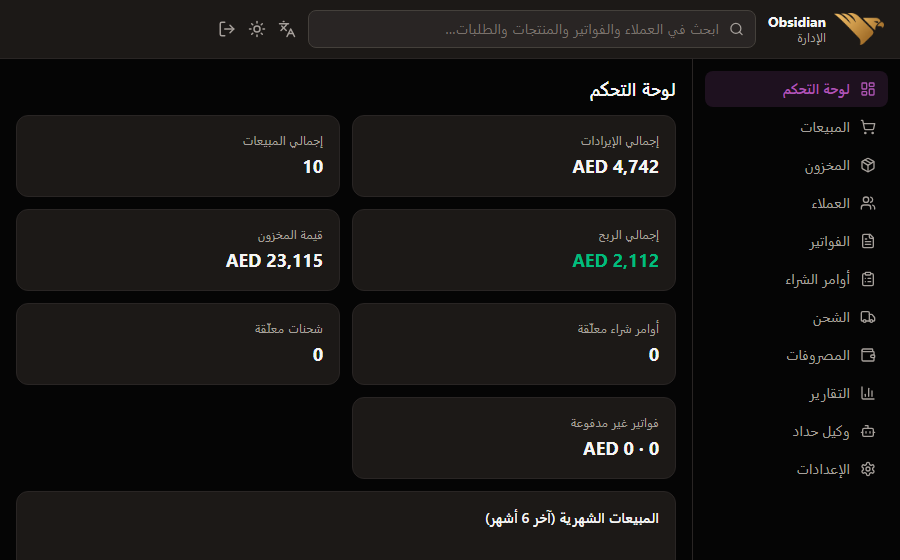
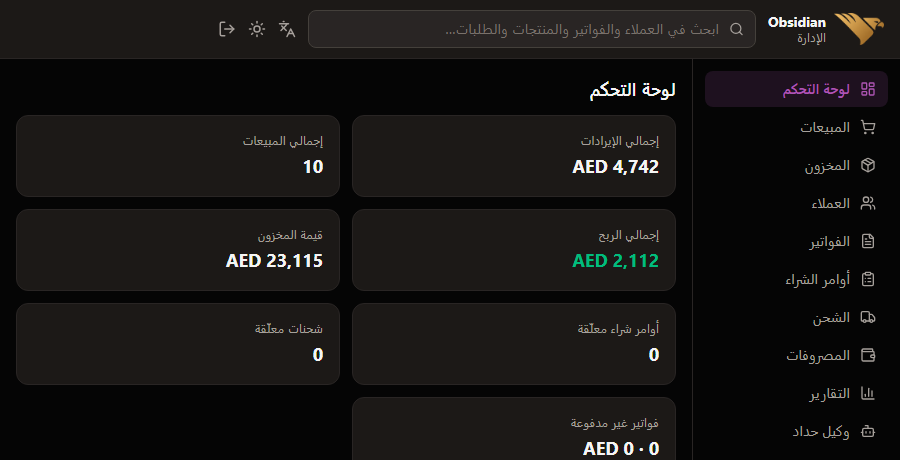
Redesign screenshots section: browser-chrome frames, uniform sizing, scroll-reveal animation

diff --git a/index.html b/index.html
@@ -123,16 +123,42 @@
     .steps .step { flex-direction: column; gap: 8px; }
   }
 
-  .shots-grid { display: grid; grid-template-columns: 1.3fr 1fr; gap: 16px; }
+  .shots-grid { display: grid; grid-template-columns: repeat(3, 1fr); gap: 22px; }
   .shot-card {
-    background: var(--card); border: 1px solid var(--border); border-radius: 14px;
-    overflow: hidden; display: flex; flex-direction: column;
+    opacity: 0; transform: translateY(24px);
+    transition: opacity 0.6s ease, transform 0.6s ease;
   }
-  .shot-card img { display: block; width: 100%; height: auto; }
-  .shot-stack { display: flex; flex-direction: column; gap: 16px; }
-  .shot-caption { padding: 12px 16px; font-size: 13px; color: var(--text-dim); }
-  @media (max-width: 800px) {
-    .shots-grid { grid-template-columns: 1fr; }
+  .shot-card.in-view { opacity: 1; transform: translateY(0); }
+  .shot-card:nth-child(2) { transition-delay: 0.1s; }
+  .shot-card:nth-child(3) { transition-delay: 0.2s; }
+  .shot-frame {
+    background: var(--bg-2); border: 1px solid var(--border); border-radius: 12px;
+    overflow: hidden; box-shadow: 0 20px 40px -20px rgba(0,0,0,0.6);
+    transition: transform 0.35s ease, box-shadow 0.35s ease, border-color 0.35s ease;
+  }
+  .shot-card:hover .shot-frame {
+    transform: translateY(-4px);
+    box-shadow: 0 28px 48px -20px rgba(0,0,0,0.7);
+    border-color: #453a2c;
+  }
+  .shot-titlebar {
+    display: flex; align-items: center; gap: 14px;
+    padding: 9px 12px; border-bottom: 1px solid var(--border);
+    direction: ltr; /* real window chrome never mirrors for an RTL page */
+  }
+  .shot-dots { display: flex; gap: 6px; flex-shrink: 0; }
+  .shot-dots span { width: 9px; height: 9px; border-radius: 50%; background: #3a332b; }
+  .shot-url {
+    flex: 1; background: var(--bg); border: 1px solid var(--border); border-radius: 6px;
+    padding: 4px 10px; font-size: 11px; color: var(--text-dim);
+    overflow: hidden; text-overflow: ellipsis; white-space: nowrap;
+    direction: ltr; text-align: left;
+  }
+  .shot-media { aspect-ratio: 900 / 460; overflow: hidden; }
+  .shot-media img { display: block; width: 100%; height: 100%; object-fit: cover; object-position: top; }
+  .shot-caption { margin-top: 14px; font-size: 14px; color: var(--text-dim); text-align: center; }
+  @media (max-width: 860px) {
+    .shots-grid { grid-template-columns: 1fr; max-width: 480px; margin: 0 auto; }
   }
 </style>
 </head>
@@ -177,18 +203,34 @@
       <p class="section-lede" data-en="A real app, running real data — shown here in both English and Arabic." data-ar="تطبيق حقيقي، يعمل ببيانات حقيقية — معروض هنا بالإنجليزية والعربية.">A real app, running real data — shown here in both English and Arabic.</p>
       <div class="shots-grid">
         <div class="shot-card">
-          <img src="/screenshots/dashboard-en.png" alt="Dashboard view, English" loading="lazy">
-          <div class="shot-caption" data-en="Dashboard — revenue, profit, and inventory value at a glance." data-ar="لوحة التحكم — الإيرادات والأرباح وقيمة المخزون بنظرة واحدة.">Dashboard — revenue, profit, and inventory value at a glance.</div>
+          <div class="shot-frame">
+            <div class="shot-titlebar">
+              <div class="shot-dots"><span></span><span></span><span></span></div>
+              <div class="shot-url">yourbusiness.obsidian-appfactory.com</div>
+            </div>
+            <div class="shot-media"><img src="/screenshots/dashboard-en.png" alt="Dashboard view, English" loading="lazy"></div>
+          </div>
+          <div class="shot-caption" data-en="Revenue, profit, and inventory value at a glance." data-ar="الإيرادات والأرباح وقيمة المخزون بنظرة واحدة.">Revenue, profit, and inventory value at a glance.</div>
         </div>
-        <div class="shot-stack">
-          <div class="shot-card">
-            <img src="/screenshots/inventory-en.png" alt="Inventory list view" loading="lazy">
-            <div class="shot-caption" data-en="Inventory — stock levels tracked in real time." data-ar="المخزون — تتبّع مستويات المخزون لحظة بلحظة.">Inventory — stock levels tracked in real time.</div>
+        <div class="shot-card">
+          <div class="shot-frame">
+            <div class="shot-titlebar">
+              <div class="shot-dots"><span></span><span></span><span></span></div>
+              <div class="shot-url">yourbusiness.obsidian-appfactory.com</div>
+            </div>
+            <div class="shot-media"><img src="/screenshots/inventory-en.png" alt="Inventory list view" loading="lazy"></div>
           </div>
-          <div class="shot-card">
-            <img src="/screenshots/dashboard-ar.png" alt="Dashboard view, Arabic, right-to-left layout" loading="lazy">
-            <div class="shot-caption" data-en="Full Arabic support, right-to-left, not just translated labels." data-ar="دعم عربي كامل، من اليمين لليسار، وليس مجرد ترجمة للتسميات.">Full Arabic support, right-to-left, not just translated labels.</div>
+          <div class="shot-caption" data-en="Stock levels tracked in real time." data-ar="تتبّع مستويات المخزون لحظة بلحظة.">Stock levels tracked in real time.</div>
+        </div>
+        <div class="shot-card">
+          <div class="shot-frame">
+            <div class="shot-titlebar">
+              <div class="shot-dots"><span></span><span></span><span></span></div>
+              <div class="shot-url">yourbusiness.obsidian-appfactory.com</div>
+            </div>
+            <div class="shot-media"><img src="/screenshots/dashboard-ar.png" alt="Dashboard view, Arabic, right-to-left layout" loading="lazy"></div>
           </div>
+          <div class="shot-caption" data-en="Full Arabic support, right-to-left — not just translated labels." data-ar="دعم عربي كامل، من اليمين لليسار — وليس مجرد ترجمة للتسميات.">Full Arabic support, right-to-left — not just translated labels.</div>
         </div>
       </div>
     </div>
@@ -272,6 +314,23 @@
       var saved = 'en';
       try { saved = localStorage.getItem('obsidian_lang') || 'en'; } catch (e) {}
       if (saved === 'ar') setLang('ar');
+    })();
+
+    (function () {
+      var cards = document.querySelectorAll('.shot-card');
+      if (!('IntersectionObserver' in window) || !cards.length) {
+        cards.forEach(function (c) { c.classList.add('in-view'); });
+        return;
+      }
+      var io = new IntersectionObserver(function (entries) {
+        entries.forEach(function (entry) {
+          if (entry.isIntersecting) {
+            entry.target.classList.add('in-view');
+            io.unobserve(entry.target);
+          }
+        });
+      }, { threshold: 0.15 });
+      cards.forEach(function (c) { io.observe(c); });
     })();
   </script>
 </body>
